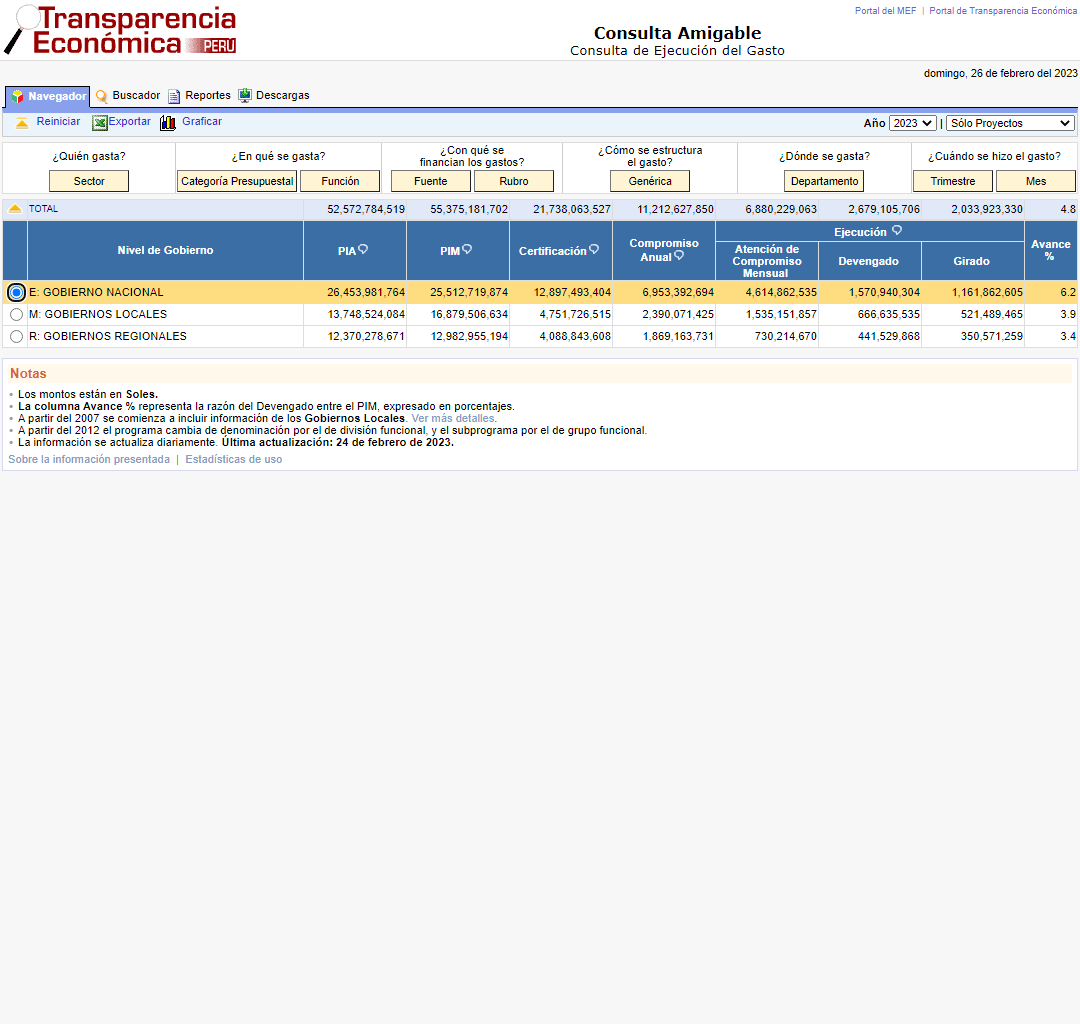
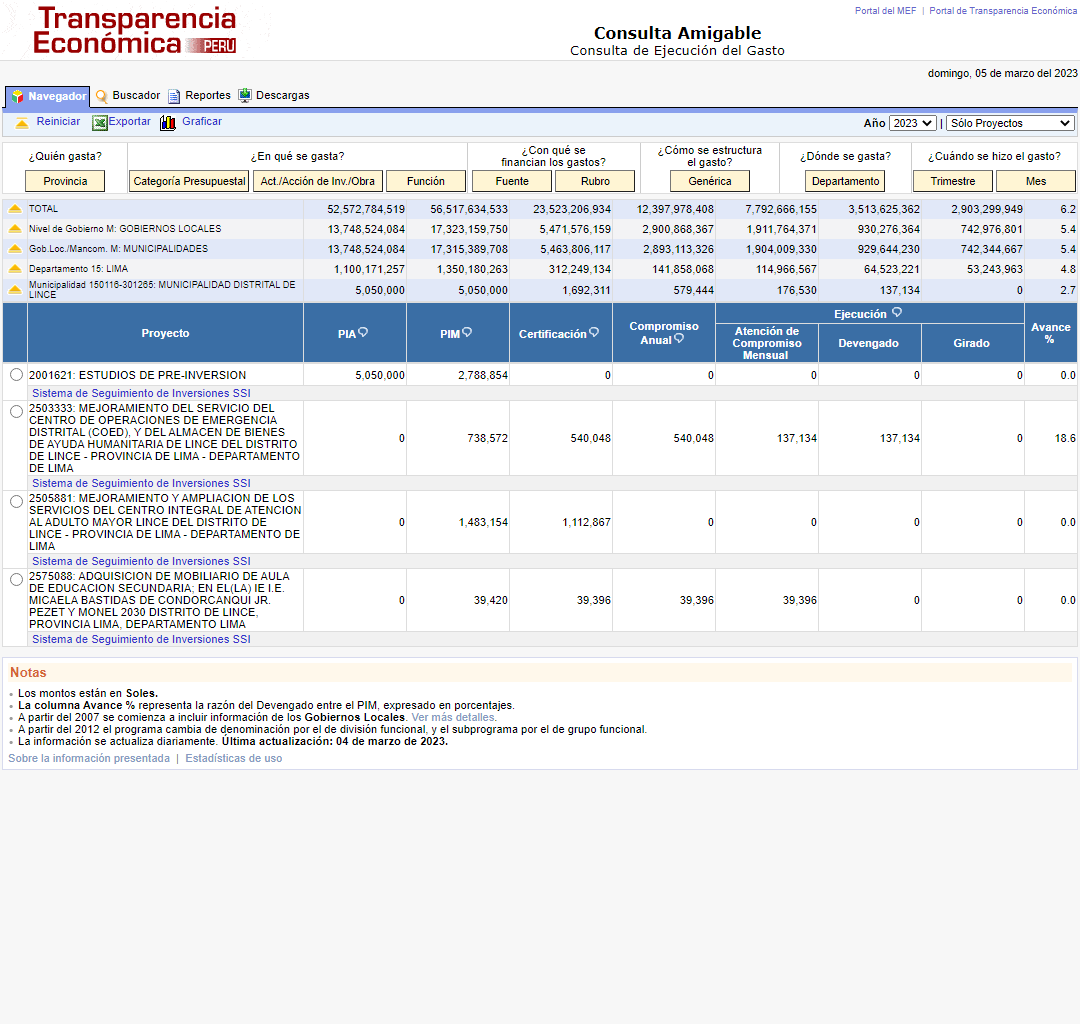
Working pia pim table

diff --git a/remi_client/src/components/ResultsComponent.js b/remi_client/src/components/ResultsComponent.js
@@ -1,8 +1,10 @@
 import React, { useState, useEffect } from 'react';
 import { Button } from 'reactstrap';
 import '../styles/css/styles.css'; // Import the CSS file
+import { toFormat } from '../utils/RemiConsumer';
 
-function ResultsComponent({ data, action, path, select }) {
+function ResultsComponent({ data, action, path, select, enabledProy, buttonsVisible }) {
+
   const [tableRows, setTableRows] = useState([]);
   const [tableButtons, setTableButtons] = useState([]);
   const [choosingRow, setChoosingRow] = useState(true);
@@ -25,25 +27,29 @@ function ResultsComponent({ data, action, path, select }) {
         data={tableButtons}
         action={action}
         enabled={!choosingRow}
+        buttonsVisible={buttonsVisible}
       />
       <ResultsTableComponent
         data={tableRows}
         action={action}
         enabled={choosingRow}
         select={select}
+        enabledProy={enabledProy}
+        buttonsVisible={buttonsVisible}
+
       />
     </>
   );
 }
 
-function ResultsTableComponent({ data, action, enabled, select }) {
-  console.log("TABLE", data);
+function ResultsTableComponent({ data, action, enabled, select, enabledProy, buttonsVisible }) {
+
   return !data ? <></> : (
     <div>
       <table className='table table-hover table-stripped'>
         <thead>
           <tr>
-            <th>Opción</th>
+            <th>{(buttonsVisible?"Opción":"Proyecto")}</th>
             <th>PIA</th>
             <th>PIM</th>
             <th>Certificación</th>
@@ -59,15 +65,16 @@ function ResultsTableComponent({ data, action, enabled, select }) {
           {data.map(item => (
             <tr key={item.name} onClick={() => action(item.name)} disabled={!enabled} className={enabled ? "table-row-enabled" : "table-row-disabled"}>
               <td>{item.name}</td>
-              <td>{item.pia}</td>
-              <td>{item.pim}</td>
-              <td>{item.cert}</td>
-              <td>{item.comp}</td>
-              <td>{item.atco}</td>
-              <td>{item.devn}</td>
-              <td>{item.gira}</td>
-              <td>{item.avan}</td>
-              <td> {enabled && <Button onClick={() => { select(item.name) }}>Reporte</Button>}
+              <td>{toFormat(item.pia)}</td>
+              <td>{toFormat(item.pim)}</td>
+              <td>{toFormat(item.cert)}</td>
+              <td>{toFormat(item.comp)}</td>
+              <td>{toFormat(item.atco)}</td>
+              <td>{toFormat(item.devn)}</td>
+              <td>{toFormat(item.gira)}</td>
+              <td>{item.avan}%</td>
+              <td>
+                {enabledProy && <Button onClick={() => { select(item.name) }}>Reporte</Button>}
               </td>
             </tr>
           ))}
@@ -78,9 +85,9 @@ function ResultsTableComponent({ data, action, enabled, select }) {
   );
 }
 
-function ResultsButtonsComponent({ data, action, enabled }) {
+function ResultsButtonsComponent({ data, action, enabled, buttonsVisible }) {
 
-  return !data ? <></> : (
+  return (!data || !buttonsVisible) ? <></> : (
     <div className="d-flex justify-content-between">
       {data.map(item => (
         <Button key={item.id} onClick={() => action(item.id)} disabled={!enabled}>{item.text}</Button>

diff --git a/remi_client/src/components/ReportComponent.js b/remi_client/src/components/ReportComponent.js
@@ -2,7 +2,10 @@ import React, { useState, useEffect } from 'react';
 
 import { useLocation } from 'react-router-dom';
 import { getRemiPath } from '../utils/RemiConsumer';
+import ExecutionPiaPimReportComponent from './Reports/ExecutionPiaPimReportComponent';
 import ExecutionSummaryReportComponent from './Reports/ExecutionSummaryReportComponent';
+import ResultsComponent from './ResultsComponent';
+
 
 function ReportComponent() {
 
@@ -12,32 +15,30 @@ function ReportComponent() {
 
     const [isLoading, setIsLoading] = useState(true);
     const [data, setData] = useState([]);
-    const [entityData, setEntityData] = useState(null)
 
     useEffect(() => {
         if (path)
-            getRemiPath(path, setData,setIsLoading);
+            getRemiPath(path, setData, setIsLoading);
     }, [path]);
-    useEffect(() => {
-        if (data && data.rows)
-            setEntityData(data.rows.filter(x => x.name === path.at(-1)));
-    }, [data, path]);
-    useEffect(() => {
-        if (entityData)
-            setIsLoading(false);
-    }, [entityData]);
 
     return (
         <>
             <>{isLoading && <div>Cargando...</div>}</>
             <>
                 {!isLoading &&
-                    <div>
-                        <br></br>
-                        Reporte para {path.at(-1)}
-                        <br></br>
-                        <ExecutionSummaryReportComponent data={entityData}></ExecutionSummaryReportComponent>
-                    </div>
+                    <>
+                        <div>
+                            <br></br>
+                            Reporte para {path.at(-2)}
+                            <br></br>
+                        </div>
+                        <ExecutionSummaryReportComponent data={data}></ExecutionSummaryReportComponent>
+
+                        <ExecutionPiaPimReportComponent data={data}></ExecutionPiaPimReportComponent>
+
+                        <ResultsComponent data={data} action={null} path={path} select={null} enabledProy={false} buttonsVisible={false}></ResultsComponent>
+                    </>
+
 
 
                 }

diff --git a/remi_client/src/components/Reports/ExecutionPiaPimReportComponent.js b/remi_client/src/components/Reports/ExecutionPiaPimReportComponent.js
@@ -1,0 +1,56 @@
+import React from 'react';
+import '../../styles/css/styles.css';
+
+function ExecutionPiaPimReportComponent({ data }) {
+
+    if (!data || data.length === 0) return null;
+
+    const allItemSummary = {
+        pim: data.rows.reduce((a, b) => a + (b.pim > 0 ? 1 : 0), 0),
+        pia: data.rows.reduce((a, b) => a + (b.pia > 0 ? 1 : 0), 0),
+        devn: data.rows.reduce((a, b) => a + (b.devn > 0 ? 1 : 0), 0),
+        concluded: data.rows.reduce((a, b) => a + (b.avan === 100 ? 1 : 0), 0)
+    };
+
+    return (
+        <>
+            <table className='table table-hover table-stripped'>
+                <thead>
+                    <tr>
+                        <th colSpan="2">Avance de ejecución presupuestal de inversiones programadas</th>
+                    </tr>
+                </thead>
+                <tbody>
+                    <tr>
+                        <td>Inversiones programadas en el PIA</td>
+                        <td>{allItemSummary.pia}</td>
+                    </tr>
+                    <tr>
+                        <td>Inversiones programadas en el PIM</td>
+                        <td>{allItemSummary.pim}</td>
+                    </tr>
+                    <tr>
+                        <td>Inversiones iniciadas presupuestalmente</td>
+                        <td>{allItemSummary.devn}</td>
+                    </tr>
+                    <tr>
+                        <td>Con ejecución presupuestal	</td>
+                        <td>{allItemSummary.devn-allItemSummary.concluded}</td>
+                    </tr>
+                    <tr>
+                        <td>Concluidos presupuestalmente</td>
+                        <td>{allItemSummary.concluded}</td>
+                    </tr>
+                    <tr>
+                        <td>Inversiones programadas en el PIA</td>
+                        <td>{allItemSummary.pim-allItemSummary.devn}</td>
+                    </tr>
+                </tbody>
+            </table>
+
+
+        </>
+    );
+}
+
+export default ExecutionPiaPimReportComponent;

diff --git a/remi_client/src/components/Reports/ExecutionSummaryReportComponent.js b/remi_client/src/components/Reports/ExecutionSummaryReportComponent.js
@@ -6,13 +6,19 @@ function ExecutionSummaryReportComponent({ data }) {
 
     if (!data || data.length === 0) return null;
 
-    const item = data[0];
+    console.log(data);
+    console.log(data.rows.reduce((a, b) => { console.log("a",a,"b.devn",b.devn);return a + b.devn }, 0));
+    console.log(data.rows.reduce((a, b) => { return a + b.pim }, 0));
+    const allItemSummary = {
+        devn: data.rows.reduce((a, b) => a + b.devn, 0),
+        pim: data.rows.reduce((a, b) => a + b.pim, 0)
+    };
 
     //Chart variables
     const COLORS = ['#0088FE', '#00C49F'];
     const chartData = [
-        { name: 'Monto ejecutado', value: item.devn },
-        { name: 'Monto por ejecutar', value: item.pim - item.devn }
+        { name: 'Monto ejecutado', value: allItemSummary.devn },
+        { name: 'Monto por ejecutar', value: allItemSummary.pim - allItemSummary.devn }
     ];
     const total = chartData.reduce((sum, entry) => sum + entry.value, 0);
 
@@ -27,17 +33,17 @@ function ExecutionSummaryReportComponent({ data }) {
                 <tbody>
                     <tr>
                         <td>Monto ejecutado</td>
-                        <td>{item.devn.toLocaleString()}</td>
+                        <td>{allItemSummary.devn.toLocaleString()}</td>
                     </tr>
                     <tr>
                         <td>Monto por ejecutar</td>
-                        <td>{(item.pim - item.devn).toLocaleString()}</td>
+                        <td>{(allItemSummary.pim - allItemSummary.devn).toLocaleString()}</td>
                     </tr>
                 </tbody>
             </table>
 
             <div style={{ textAlign: "center" }} width={"100%"}>
-                <PieChart width={600} height={400} style={{margin:"auto"}}>
+                <PieChart width={600} height={400} style={{ margin: "auto" }}>
                     <Legend verticalAlign="top" height={36} />
                     <Pie
                         dataKey="value"

diff --git a/remi_client/src/components/SelectEntityComponent.js b/remi_client/src/components/SelectEntityComponent.js
@@ -9,26 +9,35 @@ function SelectEntityComponent() {
 
   // Declare a new state variable, which we'll call "count"
   const [isLoading, setIsLoading] = useState(true);
+  const [proyEnabled, setProyEnabled] = useState(false);
   const [path, setPath] = useState([]);
   const [data, setData] = useState([]);
 
   useEffect(() => {
     setIsLoading(true);
-    getRemiPath(path,setData,setIsLoading);
+    getRemiPath(path, setData, setIsLoading);
+
+
   }, [path]);
 
+  useEffect(() => {
+    if ((path.at(-1) ?? "").includes("_Btn") && (data.buttons ?? []).filter(x => x.id === "ctl00_CPH1_BtnProdProy").length )
+      setProyEnabled(true);
+    else
+      setProyEnabled(false);
+  }, [data]);
   const addToPath = (addedPath) => {
     setPath([...path, addedPath]);
   };
 
   const selectEntity = (entityPath) => {
-    navigate('/report', { state: { path: [...path, entityPath] } });
+    navigate('/report', { state: { path: [...path, entityPath,(data.buttons ?? []).filter(x => x.id === "ctl00_CPH1_BtnProdProy")[0].id] } });
   };
 
   return (
     <>
       <>{isLoading && <div>Cargando...</div>}</>
-      {(!isLoading && data) && <ResultsComponent data={data} action={addToPath} path={path} select={selectEntity}></ResultsComponent>}
+      {(!isLoading && data) && <ResultsComponent data={data} action={addToPath} path={path} select={selectEntity} enabledProy={proyEnabled} buttonsVisible={true}></ResultsComponent>}
     </>
   );
 }

diff --git a/remi_client/src/utils/RemiConsumer.js b/remi_client/src/utils/RemiConsumer.js
@@ -8,10 +8,9 @@ export function getRemiPath(path, setterFunction, setLoading) {
   fetch(`${API_BASE_URL}?path=${path.join('/')}`)
     .then(response => response.json())
     .then(data => {
-      console.log("DATA BEFORE:", data);
       if (data && data.rows) {
         data.rows = convertPropsToNumbers(data.rows);
-        console.log("Converted:", convertPropsToNumbers(data.rows));
+        data.rows = data.rows.filter(x=>x.id);
       }
       if (setLoading)
         setLoading(false);
@@ -32,4 +31,10 @@ function convertPropsToNumbers(arr) {
     }
     return newObj;
   });
+}
+
+export function toFormat(number){
+  if(number && number.toLocaleString)
+    return number.toLocaleString();
+  return number;
 }

diff --git a/remi_server/remi.js b/remi_server/remi.js
@@ -3,7 +3,7 @@ const puppeteer = require('puppeteer');
 
 async function startRemi(optionsPath = []) {
   const browser = await puppeteer.launch({
-    args: ['--no-sandbox'],
+   // args: ['--no-sandbox'],
     timeout: 10000,
   });
   const page = await browser.newPage();

diff --git a/remi_server/README.md b/remi_server/README.md
@@ -1,0 +1,1 @@
+pm2 start /var/www/remi.gobconsult.com/remi_server/bin/www --name remi_server
